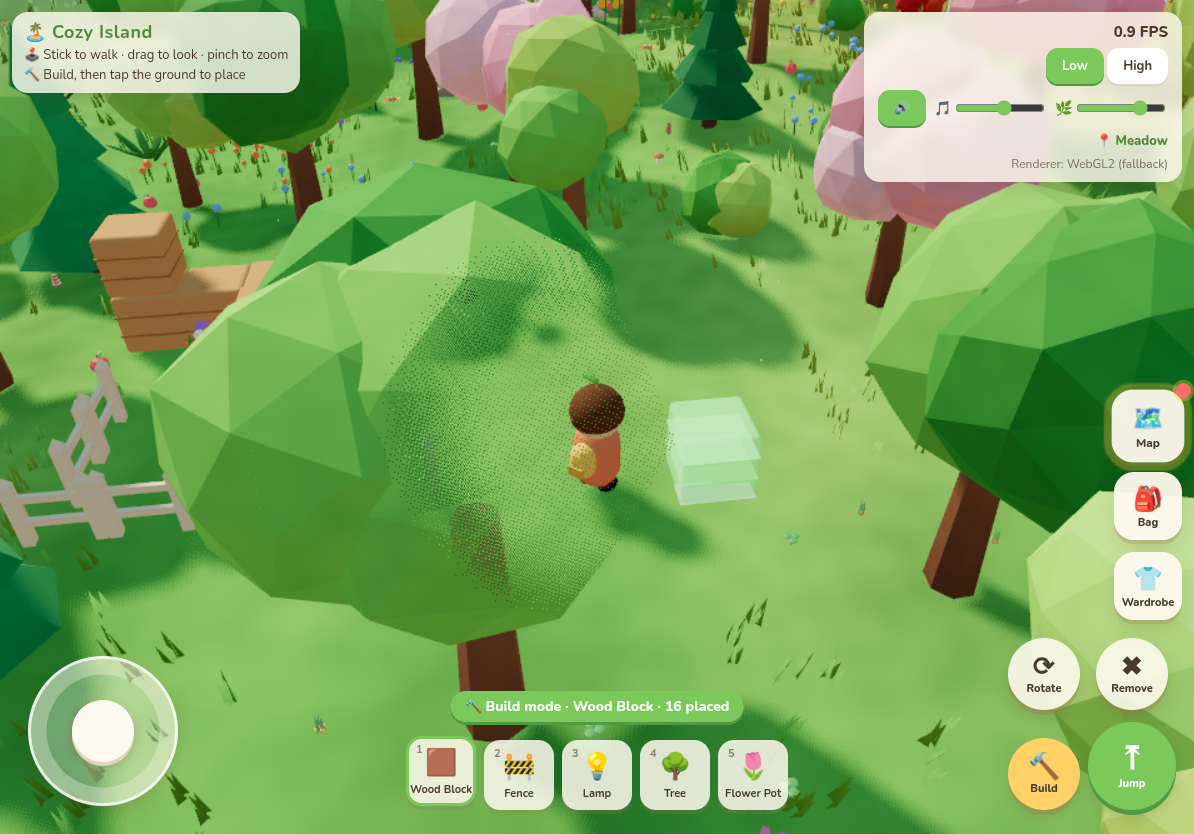
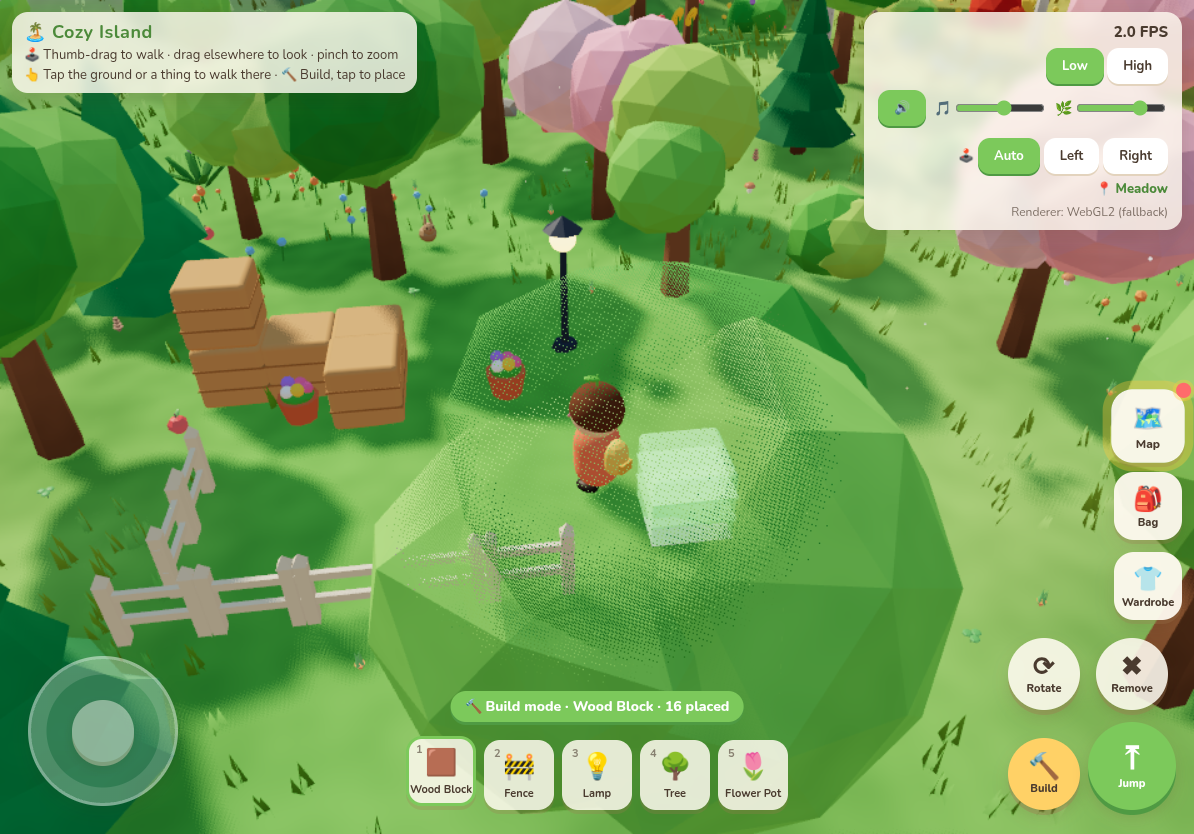
Phase 1+2: pinch with floating stick, touch/loop test fixes

diff --git a/src/core/Input.ts b/src/core/Input.ts
@@ -66,6 +66,9 @@ export class Input {
         try { el.setPointerCapture(e.pointerId); } catch { /* ignore */ }
         return;
       }
+      // a second finger before the stick woke up → it was a pinch / two-finger gesture, not a stick
+      const sp = this.stickPtr;
+      if (sp && !this.stickUi.active) { this.stickPtr = null; this.stickUi.on = false; this.ptrs.set(sp.id, sp); }
       this.ptrs.set(e.pointerId, np);
       if (this.ptrs.size === 1) this.multiTouched = false;
       if (this.ptrs.size >= 2) { this.multiTouched = true; this.pinchDist = this.twoFingerDist(); }
